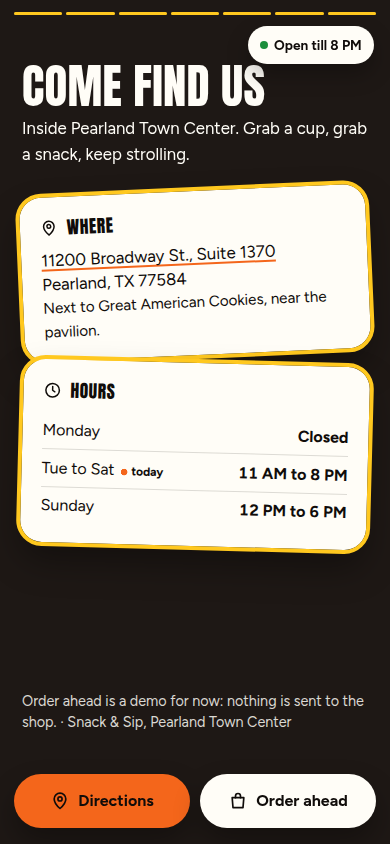
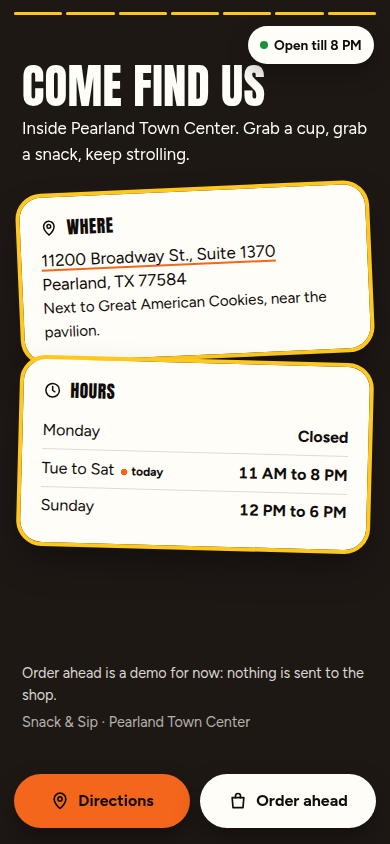
Snack & Sip: footer split, nav label, demo wording on the order confirmation
Claude-Session: https://claude.ai/code/session_01JNpXyxWLgQiAqL5S6WbgCE

Changed region(s): [[0.0615, 0.7701, 0.9231, 0.8626]]

diff --git a/snackandsip/index.html b/snackandsip/index.html
@@ -178,7 +178,7 @@ html{scrollbar-color:rgba(255,255,255,.45) transparent;scrollbar-width:thin}
 
 <div class="progress" aria-hidden="true"><span></span><span></span><span></span><span></span><span></span><span></span><span></span></div>
 <a class="chip" href="#visit" id="hoursChip" data-state="closed" aria-live="polite"><i></i><span>Hours</span></a>
-<nav class="bar" aria-label="Order, directions and hours">
+<nav class="bar" aria-label="Directions and order ahead">
   <a class="btn dir" href="https://www.google.com/maps/dir/?api=1&destination=11200+Broadway+St+Suite+1370+Pearland+TX+77584" target="_blank" rel="noopener"><svg><use href="#i-pin"/></svg>Directions</a>
   <a class="btn order" href="order/"><svg><use href="#i-bag"/></svg>Order ahead</a>
 </nav>
@@ -287,7 +287,7 @@ html{scrollbar-color:rgba(255,255,255,.45) transparent;scrollbar-width:thin}
           <tr data-d="0"><td>Sunday</td><td>12 PM to 6 PM</td></tr>
         </table>
       </div>
-    <footer>Order ahead is a demo for now: nothing is sent to the shop. &middot; Snack &amp; Sip, Pearland Town Center</footer>
+    <footer><span style="display:block">Order ahead is a demo for now: nothing is sent to the shop.</span><span style="display:block;margin-top:.4em;opacity:.8">Snack &amp; Sip &middot; Pearland Town Center</span></footer>
   </section>
 </main>
 <p class="wordmark"><img src="brand/logo.png" alt="">Snack &amp; Sip<small>Pearland Town Center<br>Tue to Sat 11 to 8 &middot; Sun 12 to 6</small></p>

diff --git a/snackandsip/order/index.html b/snackandsip/order/index.html
@@ -1038,8 +1038,8 @@ const CONFIG = {
     const p = Math.min(L.punchesToReward, L.demoPunches + cart.length);
     openSheet(`
       <div style="text-align:center;padding:26px 0 0">
-        <div class="sname" style="font-size:32px">Order in</div>
-        <div class="snote">We'll call your number at the counter.</div>
+        <div class="sname" style="font-size:32px">Demo order placed</div>
+        <div class="snote">This is how a real pickup will look. Nothing was sent to the shop.</div>
       </div>
       <div class="ticket">
         <div class="pl">Pickup number</div>
